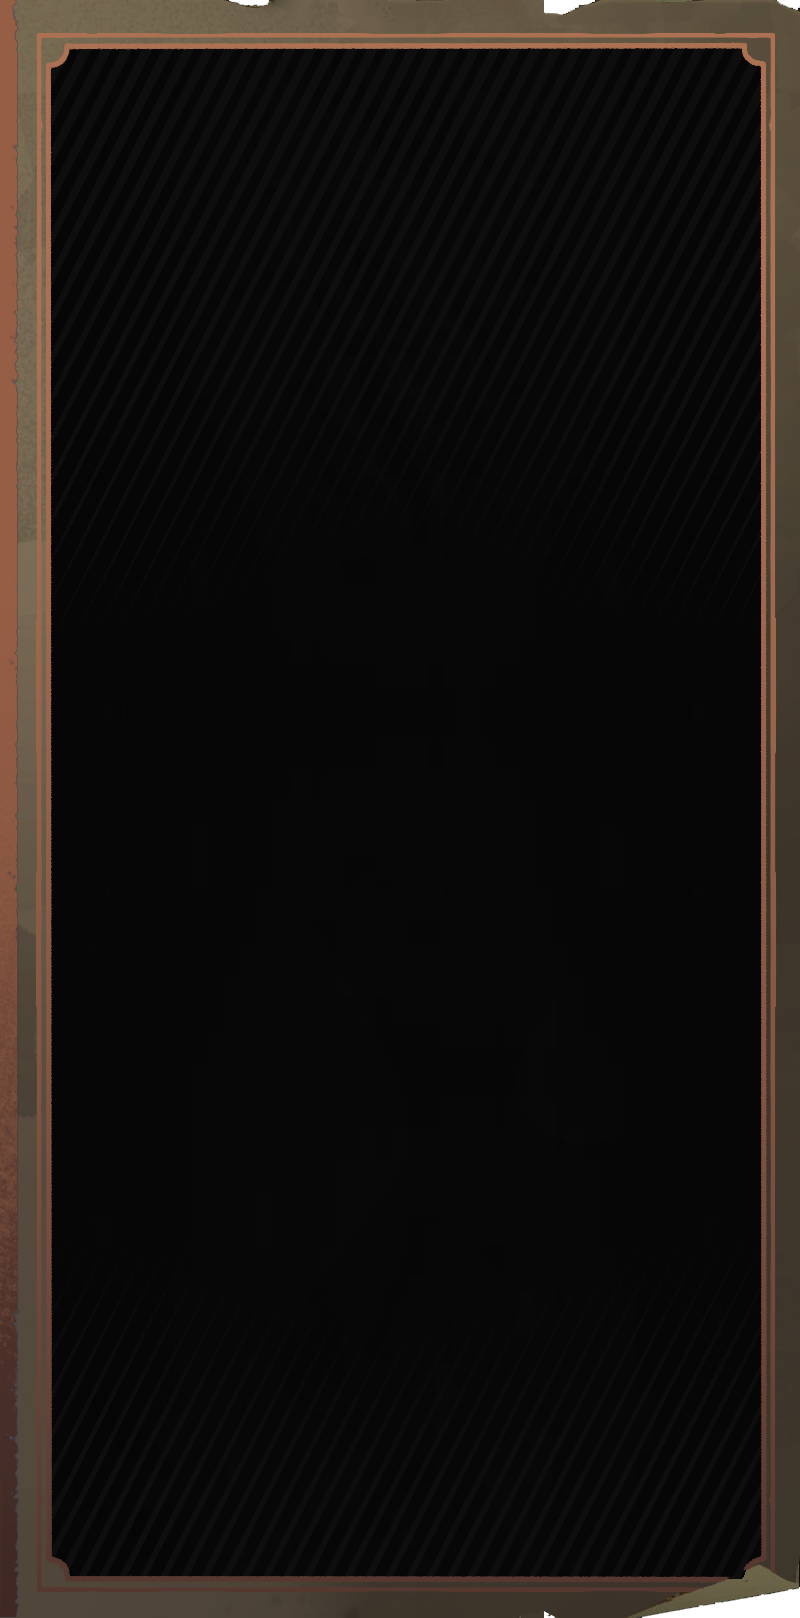
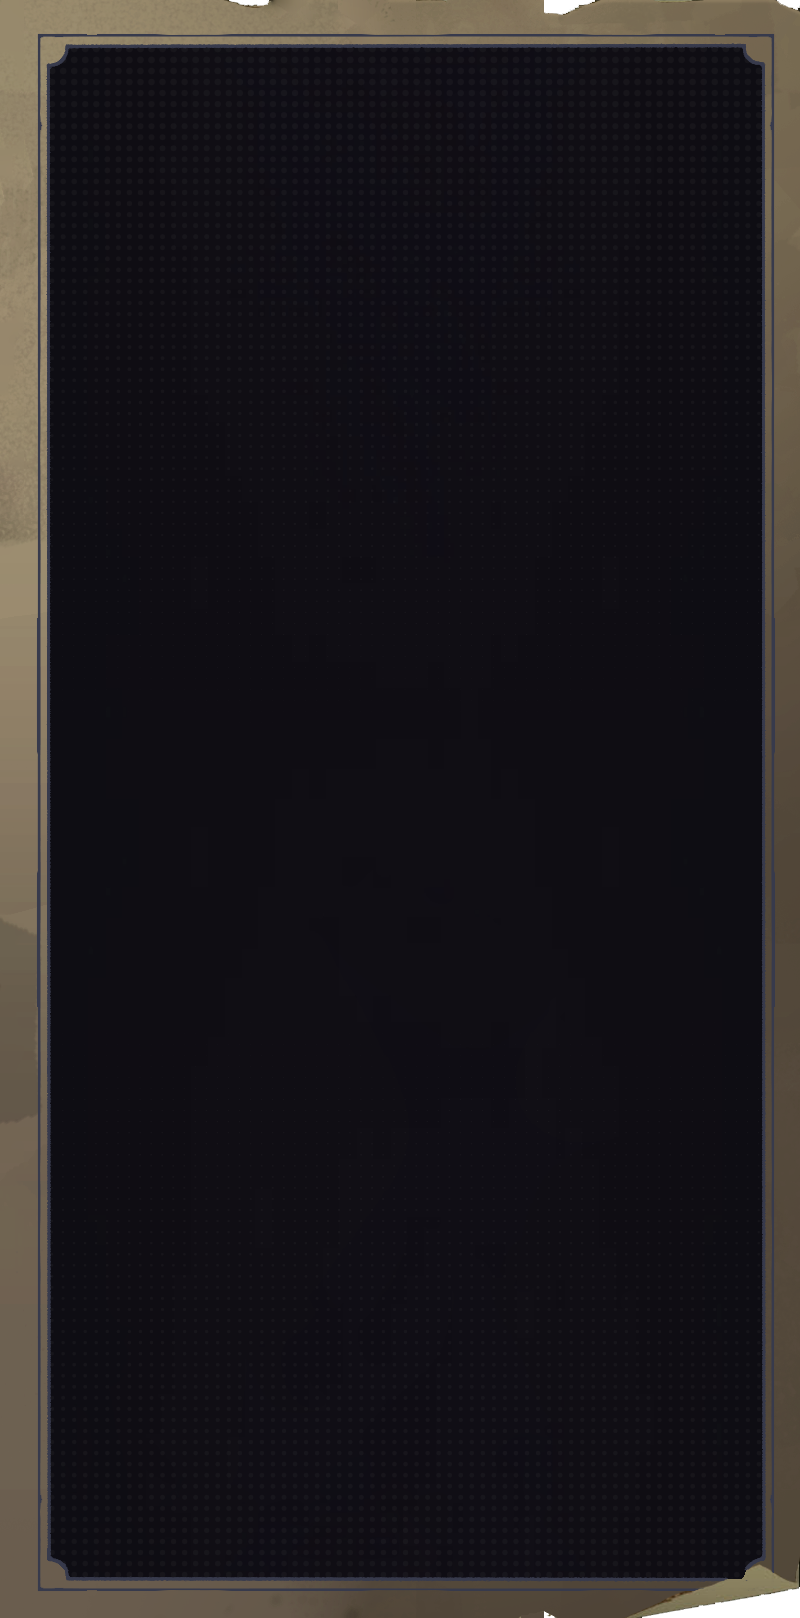
tooltip updates

Changed region(s): [[0.0, 0.0, 1.0, 1.0]]

diff --git a/css/style.css b/css/style.css
@@ -216,21 +216,22 @@ body {
   align-self: flex-start;
   display: flex;
   align-items: center;
+  justify-content: center;
   gap: 8px;
-  padding: 8px 16px;
+  padding: 10px 28px;
   font-family: "ValveOracle", "Segoe UI", sans-serif;
   font-size: 14px;
   letter-spacing: 0.5px;
   color: #f2ead9;
-  background: rgba(0, 0, 0, 0.25);
-  border: 1px dashed rgba(240, 236, 226, 0.45);
-  border-radius: 6px;
+  background-color: transparent;
+  background-image: url("../frontend_assets/shop_text_header.png");
+  background-size: 100% 100%;
+  border: none;
   cursor: pointer;
 }
 
 .build-add-section-btn:hover {
-  background: rgba(0, 0, 0, 0.4);
-  border-color: rgba(240, 236, 226, 0.7);
+  filter: brightness(1.3);
 }
 
 .build-add-section-icon {
@@ -241,13 +242,6 @@ body {
   background-position: center;
   background-repeat: no-repeat;
   filter: invert(1);
-}
-
-.build-empty-hint {
-  color: #8b8794;
-  font-size: 13px;
-  text-align: center;
-  padding: 20px 0;
 }
 
 .build-sections-container {
@@ -265,9 +259,22 @@ body {
      snap size and make a "1 column" section render wider than that. */
   min-width: 100px;
   min-height: 100px;
-  border: 2px solid rgba(240, 236, 226, 0.35);
-  border-radius: 6px;
-  background: rgba(0, 0, 0, 0.25);
+  border: 2px solid rgba(55, 58, 76, 0.6);
+  border-radius: 4px;
+  background-color: transparent;
+  /* repeating-linear-gradient repeats procedurally relative to this box's
+     own size, not a tiled raster image, so the diagonal hatch is always
+     seamless no matter how the section is resized. */
+  background-image: repeating-linear-gradient(-45deg, rgb(55 58 76 / 50%) 0px, rgb(55 58 76 / 50%) 1px, transparent 1px, #00000000 22px);
+}
+
+.build-section::before {
+  content: "";
+  position: absolute;
+  inset: 4px;
+  border: 1px solid rgba(81, 88, 60, 0.4);
+  border-radius: 4px;
+  pointer-events: none;
 }
 
 /* Content lives in its own scrolling wrapper (rather than .build-section
@@ -325,13 +332,19 @@ body {
 
 .build-section-title {
   flex: 1;
+  /* min-width:0 overrides the flex item default of min-width:auto (which
+     otherwise refuses to shrink narrower than the text's own intrinsic
+     width, forcing the header to grow instead of truncating). */
+  min-width: 0;
+  white-space: nowrap;
+  overflow: hidden;
+  text-overflow: ellipsis;
   font-family: "ValveOracle", "Segoe UI", sans-serif;
   font-size: 15px;
   font-weight: 700;
   letter-spacing: 1px;
   color: #f2ead9;
   outline: none;
-  min-width: 40px;
 }
 
 .build-section-title:focus {

diff --git a/js/app.js b/js/app.js
@@ -659,13 +659,6 @@
 
   function renderBuildSections() {
     sectionsContainerEl.innerHTML = "";
-    if (buildState.sections.length === 0) {
-      const hint = document.createElement("div");
-      hint.className = "build-empty-hint";
-      hint.textContent = "Drag items from the shop above into a section to start building.";
-      sectionsContainerEl.appendChild(hint);
-      return;
-    }
     const frag = document.createDocumentFragment();
     buildState.sections.forEach((section, index) => frag.appendChild(buildSectionEl(section, index)));
     sectionsContainerEl.appendChild(frag);
@@ -748,7 +741,9 @@
   }
 
   function addBuildSection() {
-    const section = { id: makeId("sec"), name: "New Section", optional: false, items: [] };
+    // 276x190 = widthForColumns(3) x heightForRows(1, ~37px header) — a new
+    // section starts already snapped to the slot grid (3 columns, 1 row).
+    const section = { id: makeId("sec"), name: "New Section", optional: false, items: [], width: 276, height: 190 };
     buildState.sections.push(section);
     saveBuildToStorage(buildState);
     renderBuildSections();

diff --git a/index.html b/index.html
@@ -4,7 +4,7 @@
 <meta charset="UTF-8">
 <meta name="viewport" content="width=device-width, initial-scale=1.0">
 <title>Deadlock Shop Browser</title>
-<link rel="stylesheet" href="css/style.css?v=58">
+<link rel="stylesheet" href="css/style.css?v=66">
 </head>
 <body>
 
@@ -28,6 +28,6 @@
 <div class="shop-builds" id="shop-builds"></div>
 
 <script src="js/items-data.js?v=15"></script>
-<script src="js/app.js?v=11"></script>
+<script src="js/app.js?v=13"></script>
 </body>
 </html>
